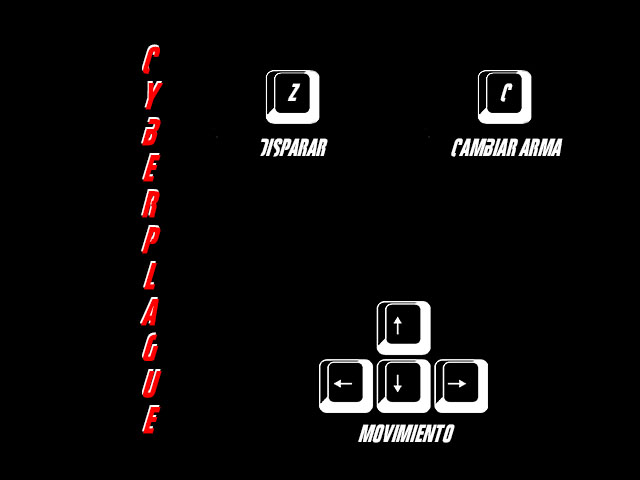
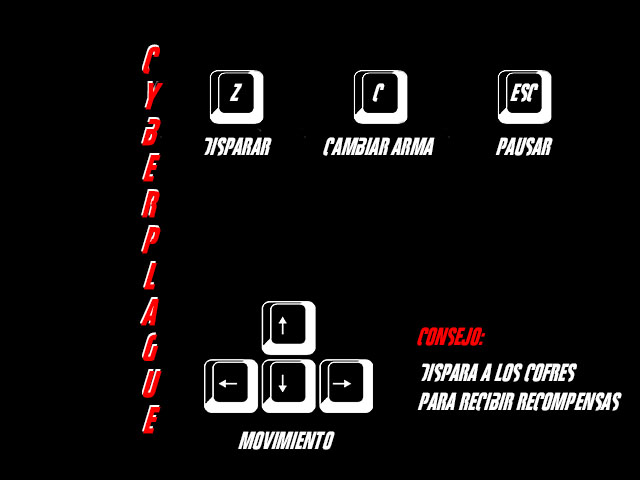
Cambio controles y actualizado logs

Changed region(s): [[0.3125, 0.625, 0.9688, 0.9375], [0.3125, 0.125, 0.875, 0.3438]]

diff --git a/eval/autoevaluacion.md b/eval/autoevaluacion.md
@@ -20,10 +20,7 @@ Y por último decidimos hacer un tercer nivel que también cree e implementé yo
 
 
 ## Rubén Herrera Cervera
-Para este hito lo primero que hice fue unificar el código del menú que teniamos separado. Aquí tuve un error ya que al pasar el codigo al proyecto probe a llamarlo desde el main para ver el resultado y no conseguía que se dibujase. Era porque tenía un error con la variable que manejaba es estado del menu en el que se encontraba. 
-Implemente las diferentes funciones del patrón state en el menú e intenté continuar implementandolo en la clase CyberPlague pero sin éxito.
-Finalmente adapté el codigo del menú para que utilizase el patrón fachada y añadí a este para que pudiese dibujar el texto.
-Me ha quedado pendiente haber conseguido implementar el patrón state completo, aunque confío en tenerlo esta próxima semana.
+En el hito final, me he encargado de terminar el menu y arreglar unos fallos que tenía. Le he añadido a este una pantalla con los controles. He creado la clase pausa que mantiene el estilo del menú y he hecho que funciones parando el update y el render del juego. Tambien he creado el sistema con el que funciona la tienda del juego en este menú.
 
 ## Carlos Villena Cerdá
 Al comienzo del hito empecé creando la clase M_Window y M_Sprite, después creé la clase Entidad y NPC e incluí algunas funcionalidades para que las clases de los NPCs (que ya estaban creadas) para que pudieran utilizar los métodos de las clases padre. También implementé las clases de las armas y creé sus sprites.

diff --git a/gest/reparto.md b/gest/reparto.md
@@ -27,3 +27,10 @@ Esta información debe estár sincronizada con el GDD. Debe contener la informac
 - Búsqueda de sprites para el HUD del juego.
 - Solucionar errores con colisiones en el mapa debido a las capas.
 - Dibujado del personaje y de las balas en su capa del mapa correspondiente.
+
+### Rubén Herrera Cervera
+- Implementacíon del menú
+- Añadida vista para los controles
+- Posibilidad de pausar el juego
+- Vista de la pausa
+- Creación de la tienda en la pausa

diff --git a/gest/log.md b/gest/log.md
@@ -261,3 +261,6 @@ Player sufre daño cuando recibe un ataque cuerpo a cuerpo de un NPC o cuando co
 ## 20210516 SergioEspinosa @(30m)
 Actualizados los documentos autoevaluación, log, reparto y tareas.
 >>>>>>> f9117438d927e1641656abd57e38951edfdea1e1
+
+## 20210516 RubénHerrera @(30m)
+Cambiada el fondo de los controles del menú y actualizado documentos.
